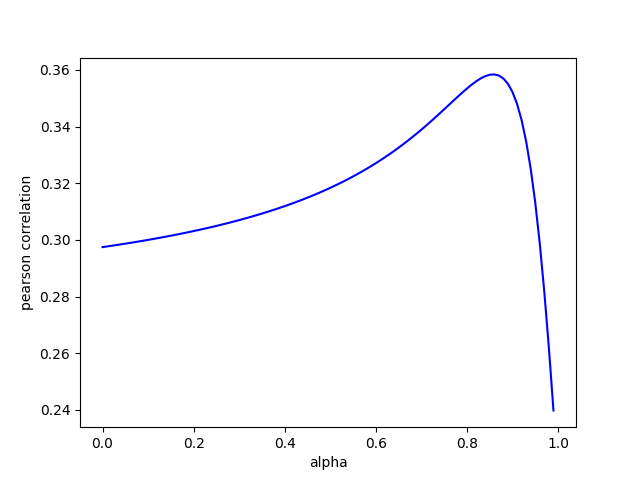
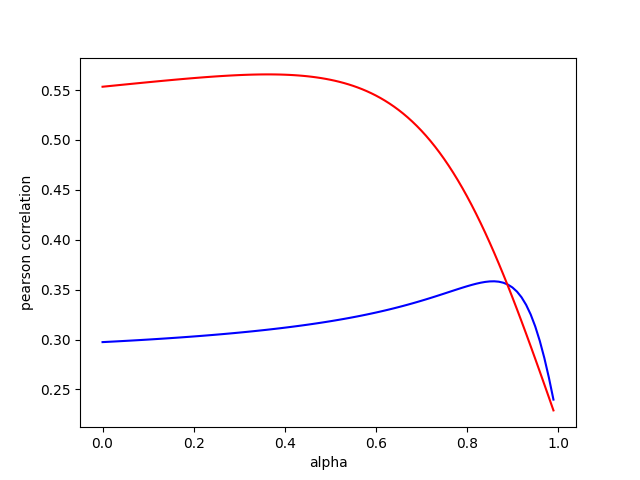
more image updates

diff --git a/code/plotting.py b/code/plotting.py
@@ -218,11 +218,21 @@ if input != "ref.txt":
 with open("results/seamlessuniscores.txt", "r") as uniscore:
     lines = uniscore.readlines()
     refs = list(
-        map(lambda x: (float(x.split("\t")[0]), float(x.split("\t")[1])), lines)
+        map(
+            lambda x: (
+                float(x.split("\t")[0]),
+                float(x.split("\t")[1]),
+                float(x.split("\t")[2]),
+            ),
+            lines,
+        )
     )
     alpha = [i[0] / 100 for i in refs]
     pearsoncorr = [i[1] for i in refs]
-    plt.plot(alpha, pearsoncorr, color="blue", label="correlation of different alphas")
+    pearsoncorr2 = [i[2] for i in refs]
+    plt.plot(alpha, pearsoncorr, color="blue", label="transcription probability")
+    plt.plot(alpha, pearsoncorr2, color="red", label="transcript probability mean")
+
     plt.xlabel("alpha")
     plt.ylabel("pearson correlation")
     plt.savefig(base + "seamlessuniscoredistribution.png")
@@ -231,11 +241,20 @@ with open("results/seamlessuniscores.txt", "r") as uniscore:
 with open("results/dlmuniscores.txt", "r") as dlmuniscore:
     lines = dlmuniscore.readlines()
     refs = list(
-        map(lambda x: (float(x.split("\t")[0]), float(x.split("\t")[1])), lines)
+        map(
+            lambda x: (
+                float(x.split("\t")[0]),
+                float(x.split("\t")[1]),
+                float(x.split("\t")[2]),
+            ),
+            lines,
+        )
     )
     alpha = [i[0] / 100 for i in refs]
     pearsoncorr = [i[1] for i in refs]
-    plt.plot(alpha, pearsoncorr, color="blue", label="correlation of different alphas")
+    pearsoncorr2 = [i[2] for i in refs]
+    plt.plot(alpha, pearsoncorr, color="blue", label="transcription probability")
+    plt.plot(alpha, pearsoncorr2, color="red", label="transcript probability mean")
     plt.xlabel("alpha")
     plt.ylabel("pearson correlation")
     plt.savefig(base + "dlmuniscoredistribution.png")
